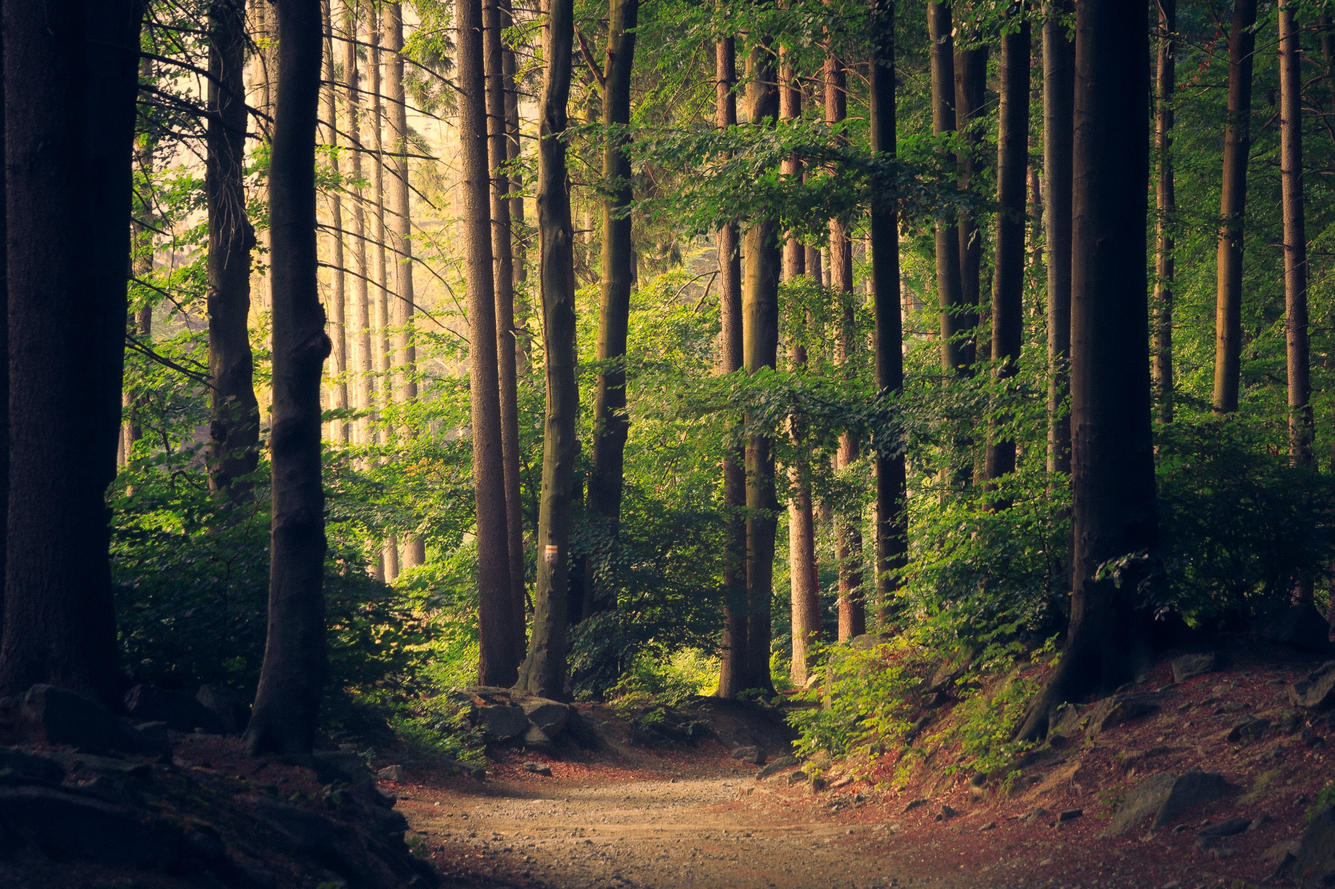
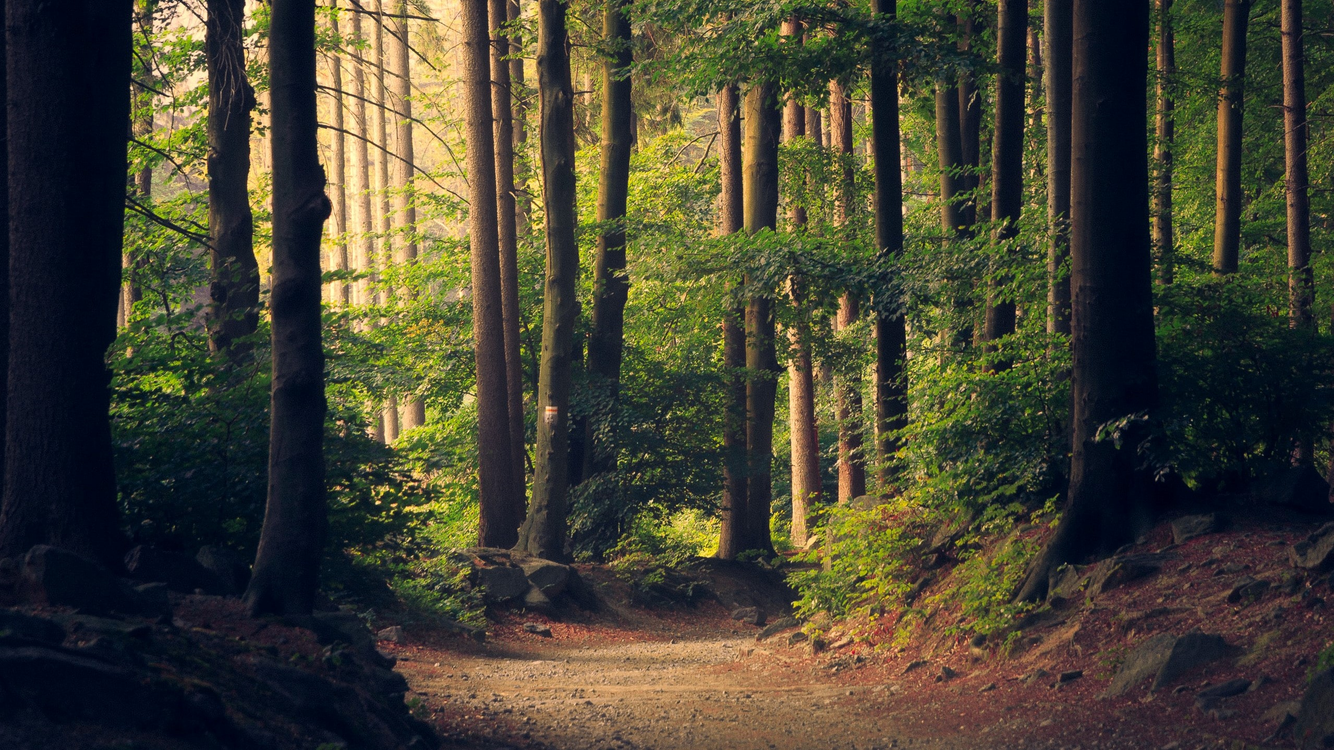
fix: resize photos (Mon, Apr 25, 2022 10:02:23 AM)

diff --git a/cssMemSlider/styles/style.css b/cssMemSlider/styles/style.css
@@ -93,11 +93,22 @@ h6 {
 }
 
 ._container {
-  max-width: 1200px;
+  max-width: 1280px;
   padding: 0px 40px;
   margin: 0 auto;
 }
 
+@media (max-width: 1279px) {
+  ._container {
+    padding: 0px 20px;
+  }
+}
+
+@media (max-width: 767px) {
+  ._container {
+    padding: 0px 10px;
+  }
+}
 /*-------------------------------------------------------------*/
 /*-----Header--------------------------------------------------*/
 /*-------------------------------------------------------------*/
@@ -143,6 +154,7 @@ h6 {
 
 .slider__slides .slider__image {
   width: 20%;
+  height: 100%;
 }
 
 .slider__slides .slider__images {
@@ -159,7 +171,7 @@ h6 {
 
 .slider__image img {
   width: 100%;
-  height: 500px;
+  height: 100%;
 }
 
 #radio-1:checked ~ .slider__slides .slider__images {
